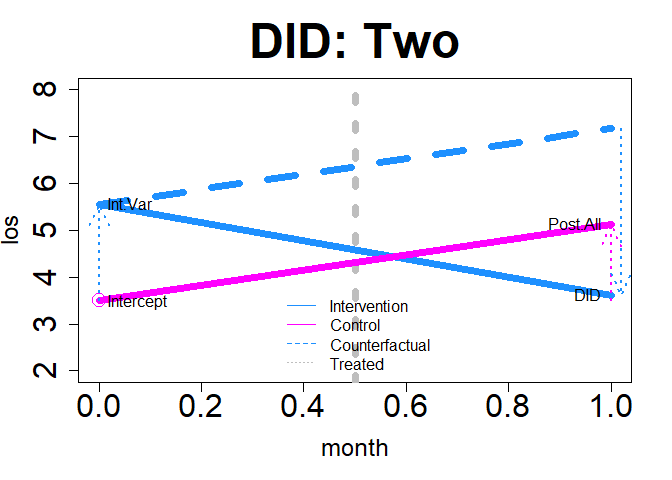
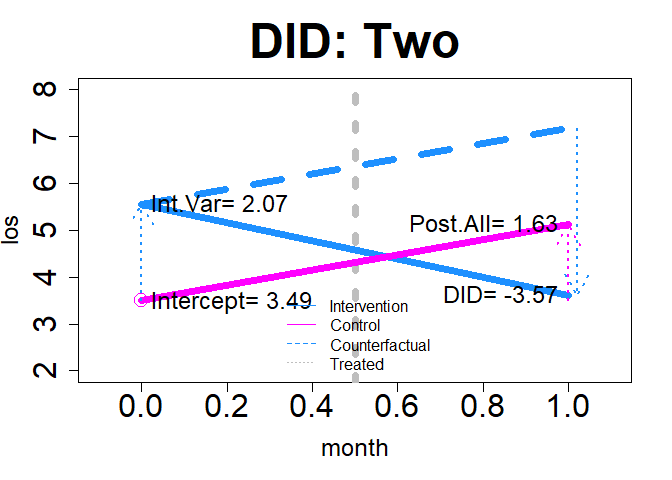
plot.assess: Added coefficient values

diff --git a/README.md b/README.md
@@ -850,17 +850,21 @@ Examples of new plotting options are below.
 ### Differences-in-Differences
 
 ``` r
-plot(dm1, "DID", add.legend="bottom", ylim=c(2, 8), main="DID: Two",
+plot(dm1, "DID", add.legend="bottom", ylim=c(2, 8), main="DID: Two No Coefficients",
      col=c("dodgerblue","magenta"), lwd=7,
      cex=2, cex.axis=2, cex.lab=1.5,  cex.main=3, arrow=TRUE, xshift=c(.02) )
+```
+
+<img src="man/figures/README-revDID0-1.png" width="100%" />
+
+``` r
+plot(dm1, "DID", add.legend="bottom", xlim=c(-.1, 1.1), ylim=c(2, 8), main="DID: Two", col=c("dodgerblue","magenta"), lwd=7, cex=2, cex.axis=2, cex.lab=1.5,  cex.main=3, arrow=TRUE, xshift=c(.02), cex.text=1.5, coefs=TRUE, round.c=2 )
 ```
 
 <img src="man/figures/README-revDID1-1.png" width="100%" />
 
 ``` r
-plot(dm2, "DID", add.legend="topleft", ylim=c(2, 8), main="DID: Many",
-     col=c("purple","green"), lwd=7,
-     cex=3, cex.axis=2, cex.lab=1.5,  cex.main=3, arrow=TRUE, xshift=c(.25, .1) )
+plot(dm2, "DID", add.legend="topleft", xlim=c(-.5, 12), ylim=c(2, 8), main="DID: Many", col=c("purple","green"), lwd=7, cex=3, cex.axis=2, cex.lab=1.5,  cex.main=3, arrow=TRUE, xshift=c(.25, .1), cex.text=1.5, coefs=TRUE, round.c=2 )
 ```
 
 <img src="man/figures/README-revDID2-1.png" width="100%" />
@@ -868,33 +872,29 @@ plot(dm2, "DID", add.legend="topleft", ylim=c(2, 8), main="DID: Many",
 ### Interrupted Time Series
 
 ``` r
-plot(im11, "ITS", add.legend="topleft", xlim=c(.75, 12), ylim=c(2, 8), 
-     main="ITS study: SGST", col="thistle", lwd=7,
-     cex=3, cex.axis=2, cex.lab=1.5,  cex.main=3, arrow=TRUE, xshift=c(.25, .25) )
+plot(im11, "ITS", add.legend="topleft", xlim=c(-1, 14), ylim=c(2, 8), 
+     main="ITS study: SGST", col="thistle", lwd=7, cex=3, cex.axis=2, cex.lab=1.5,  cex.main=3, arrow=TRUE, xshift=c(.25, .25), cex.text=1.5, coefs=TRUE, round.c=2 )
 ```
 
 <img src="man/figures/README-revITS1-1.png" width="100%" />
 
 ``` r
-plot(im12, "ITS", add.legend="topleft", xlim=c(.75, 12), ylim=c(2, 8), 
-     main="ITS study: SGMT", col="hotpink", lwd=7,
-     cex=3, cex.axis=2, cex.lab=1.5,  cex.main=3, arrow=TRUE, xshift=c(.25, .25) )
+plot(im12, "ITS", add.legend="topleft", xlim=c(-1, 14), ylim=c(2, 8), 
+     main="ITS study: SGMT", col="hotpink", lwd=7, cex=3, cex.axis=2, cex.lab=1.5,  cex.main=3, arrow=TRUE, xshift=c(.25, .25), cex.text=1.5, coefs=TRUE, round.c=2 )
 ```
 
 <img src="man/figures/README-revITS2-1.png" width="100%" />
 
 ``` r
-plot(im21, "ITS", add.legend="top", xlim=c(.75, 12), ylim=c(2, 8), 
-     main="ITS study: MGST", col=c("springgreen","salmon"), lwd=7,
-     cex=3, cex.axis=2, cex.lab=1.5,  cex.main=3, arrow=TRUE, xshift=c(.25, .25) )
+plot(im21, "ITS", add.legend="top", xlim=c(-1, 14), ylim=c(2, 8), 
+     main="ITS study: MGST", col=c("springgreen","salmon"), lwd=7, cex=3, cex.axis=2, cex.lab=1.5,  cex.main=3, arrow=TRUE, xshift=c(.25, .25), cex.text=1.5, coefs=TRUE, round.c=2 )
 ```
 
 <img src="man/figures/README-revITS3-1.png" width="100%" />
 
 ``` r
-plot(im22, "ITS", add.legend="top", xlim=c(.75, 12), ylim=c(2, 8), 
-     main="ITS study: MGMT", col=c("dodgerblue","goldenrod"), lwd=7,
-     cex=3, cex.axis=2, cex.lab=1.5,  cex.main=3, arrow=TRUE, xshift=c(.5, .25) )
+plot(im22, "ITS", add.legend="top", xlim=c(-1, 14), ylim=c(2, 8), 
+     main="ITS study: MGMT", col=c("dodgerblue","goldenrod"), lwd=7, cex=3, cex.axis=2, cex.lab=1.5,  cex.main=3, arrow=TRUE, xshift=c(0, 0), cex.text=.75, coefs=TRUE, round.c=2 )
 ```
 
 <img src="man/figures/README-revITS4-1.png" width="100%" />
